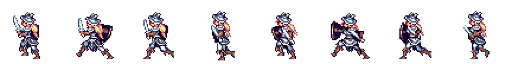
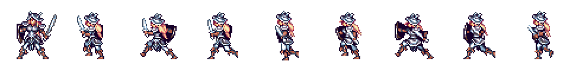
Update res

diff --git a/Classes/Board.cpp b/Classes/Board.cpp
@@ -261,10 +261,18 @@ void Board::moveRight(TrizzleSprite *sprite) {
     log("moveRight coord x = %f y = %f", coord.x, coord.y);
     coord.y -= 1;
     coord.x += 1;
+
     if (canMove(coord)) {
-        Vec2 pos = sprite->getPosition();
-        pos.x += 64;
-        sprite->setPosition(pos);
+        auto animation = Animation::createWithSpriteFrames(getSpriteFrames(sprite, Constant::DIRECT_RIGHT), 0.1f);
+        auto animate = Animate::create(animation);
+        Vec2 delta(64, 0);
+        MoveBy *moveBy = MoveBy::create(0.5f, delta);
+
+        sprite->runAction(moveBy);
+        sprite->runAction(animate);
+//        Vec2 pos = sprite->getPosition();
+//        pos.x += 64;
+//        sprite->setPosition(pos);
         Vec2 prevCoord = Vec2(coord.x - 1, coord.y);
         setSprite(prevCoord, NULL);
         setSprite(coord, sprite);
@@ -276,9 +284,16 @@ void Board::moveLeft(TrizzleSprite *sprite) {
     coord.x -= 1;
     coord.y -= 1;
     if (canMove(coord)) {
-        Vec2 pos = sprite->getPosition();
-        pos.x -= 64;
-        sprite->setPosition(pos);
+        auto animation = Animation::createWithSpriteFrames(getSpriteFrames(sprite, Constant::DIRECT_LEFT), 0.1f);
+        auto animate = Animate::create(animation);
+        Vec2 delta(-64, 0);
+        MoveBy *moveBy = MoveBy::create(0.5f, delta);
+
+        sprite->runAction(moveBy);
+        sprite->runAction(animate);
+//        Vec2 pos = sprite->getPosition();
+//        pos.x -= 64;
+//        sprite->setPosition(pos);
         Vec2 prevCoord = Vec2(coord.x + 1, coord.y);
         setSprite(prevCoord, NULL);
         setSprite(coord, sprite);
@@ -389,4 +404,29 @@ Vec2 Board::tileCoordForPosition(Vec2 position) {
     int x = (position.x) / mTiledMap->getTileSize().width;
     int y = ((mTiledMap->getMapSize().height * mTiledMap->getTileSize().height) - (position.y)) / mTiledMap->getTileSize().height;
     return Vec2(x, y);
+}
+
+Vector<SpriteFrame *> Board::getSpriteFrames(TrizzleSprite *sprite, int direction) {
+    if (sprite) {
+        if (sprite->getType() == Constant::TYPE_KNIGHT) {
+            if (direction == Constant::DIRECT_LEFT) {
+                return sFrameDict[Constant::KNIGHT_LEFT];
+            } else if (direction == Constant::DIRECT_RIGHT) {
+                return sFrameDict[Constant::KNIGHT_RIGHT];
+            }
+        } else if (sprite->getType() == Constant::TYPE_THIEF) {
+            if (direction == Constant::DIRECT_LEFT) {
+                return sFrameDict[Constant::THIEF_LEFT];
+            } else if (direction == Constant::DIRECT_RIGHT) {
+                return sFrameDict[Constant::THIEF_RIGHT];
+            }
+        } else if (sprite->getType() == Constant::TYPE_WIZARD) {
+            if (direction == Constant::DIRECT_LEFT) {
+                return sFrameDict[Constant::WIZARD_LEFT];
+            } else if (direction == Constant::DIRECT_RIGHT) {
+                return sFrameDict[Constant::WIZARD_RIGHT];
+            }
+        }
+    }
+    return Vector<SpriteFrame *>();
 }

diff --git a/Classes/Constant.cpp b/Classes/Constant.cpp
@@ -1,16 +1,16 @@
 #include "Constant.h"
 
-const char* Constant::GAME_NAME = "Trizzle";
-const char* Constant::FONT = "Marker Felt.ttf";
+const char* const Constant::GAME_NAME = "Trizzle";
+const char* const Constant::FONT = "Marker Felt.ttf";
 const double Constant::FRAME_RATE = 1.0 / 60.0;
 
 const int Constant::TYPE_THIEF = 0;
 const int Constant::TYPE_WIZARD = 1;
 const int Constant::TYPE_KNIGHT = 2;
 
-const char* Constant::MENU_PLAY = "Play";
-const char* Constant::MENU_SETTINGS = "Settings";
-const char* Constant::MENU_EXIT = "Exit";
+const char* const Constant::MENU_PLAY = "Play";
+const char* const Constant::MENU_SETTINGS = "Settings";
+const char* const Constant::MENU_EXIT = "Exit";
 
 const int Constant::MENU_PLAY_TAG = 0;
 const int Constant::MENU_SETTINGS_TAG = 1;
@@ -19,6 +19,17 @@ const int Constant::MENU_EXIT_TAG = 2;
 const int Constant::MENU_BACK_TAG = 3;
 const int Constant::MENU_START_TAG = 4;
 
-const char* Constant::TILED_BACKGROUND_LAYER = "background";
-const char* Constant::TILED_OBJECT_LAYER = "object";
-const char* Constant::TILED_META_LAYER = "meta";
+const char* const Constant::TILED_BACKGROUND_LAYER = "background";
+const char* const Constant::TILED_OBJECT_LAYER = "object";
+const char* const Constant::TILED_META_LAYER = "meta";
+
+const int Constant::DIRECT_LEFT = 0;
+const int Constant::DIRECT_RIGHT = 1;
+
+const char* const Constant::EXPLOSION = "explosion";
+const char* const Constant::WIZARD_LEFT = "wizard_walk_left";
+const char* const Constant::WIZARD_RIGHT = "wizard_walk_right";
+const char* const Constant::KNIGHT_LEFT = "knight_walk_left";
+const char* const Constant::KNIGHT_RIGHT = "knight_walk_right";
+const char* const Constant::THIEF_LEFT = "thief_walk_left";
+const char* const Constant::THIEF_RIGHT = "thief_walk_right";

diff --git a/Classes/Constant.h b/Classes/Constant.h
@@ -3,17 +3,17 @@
 
 class Constant {
 public:
-    static const char* GAME_NAME;
-    static const char* FONT;
+    static const char* const GAME_NAME;
+    static const char* const FONT;
     static const double FRAME_RATE;
 
     static const int TYPE_THIEF;
     static const int TYPE_WIZARD;
     static const int TYPE_KNIGHT;
 
-    static const char* MENU_PLAY;
-    static const char* MENU_SETTINGS;
-    static const char* MENU_EXIT;
+    static const char* const MENU_PLAY;
+    static const char* const MENU_SETTINGS;
+    static const char* const MENU_EXIT;
 
     static const int MENU_PLAY_TAG;
     static const int MENU_SETTINGS_TAG;
@@ -22,9 +22,20 @@ public:
     static const int MENU_BACK_TAG;
     static const int MENU_START_TAG;
 
-    static const char* TILED_BACKGROUND_LAYER;
-    static const char* TILED_OBJECT_LAYER;
-    static const char* TILED_META_LAYER;
+    static const char* const TILED_BACKGROUND_LAYER;
+    static const char* const TILED_OBJECT_LAYER;
+    static const char* const TILED_META_LAYER;
+
+    static const int DIRECT_LEFT;
+    static const int DIRECT_RIGHT;
+
+    static const char* const EXPLOSION;
+    static const char* const WIZARD_LEFT;
+    static const char* const WIZARD_RIGHT;
+    static const char* const KNIGHT_LEFT;
+    static const char* const KNIGHT_RIGHT;
+    static const char* const THIEF_LEFT;
+    static const char* const THIEF_RIGHT;
 };
 
 #endif

diff --git a/Classes/Board.h b/Classes/Board.h
@@ -65,6 +65,7 @@ private:
     void explode(TrizzleSprite *sprite);
     void defend(TrizzleSprite *sprite);
     void showMessage(const string msg);
+    Vector<SpriteFrame *> getSpriteFrames(TrizzleSprite *sprite, int direction);
 public:
     Board(Layer *layer);
     void loadTiledMap(const string &filename);
